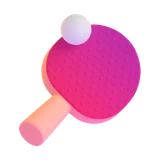
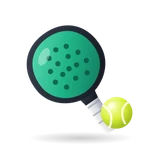
fix(sports): distinct padel pictogram (was the ping-pong emoji, now used by table tennis)
Claude-Session: https://claude.ai/code/session_01XtTvXAJQJA2PwRDLbGjBdh

diff --git a/public/sports/CREDITS.md b/public/sports/CREDITS.md
@@ -26,4 +26,4 @@ trouvées via [Openverse](https://openverse.org). Recadrées en 800×600.
 
 ## Pictogrammes 3D
 
-Les pictogrammes de `public/emoji/` sont les [Fluent Emoji](https://github.com/microsoft/fluentui-emoji) de Microsoft (licence MIT), redimensionnés en WebP 160 px. Seule exception : `petanque.webp` (boules et cochonnet), dessiné pour le site dans le même style, faute d'emoji pétanque.
+Les pictogrammes de `public/emoji/` sont les [Fluent Emoji](https://github.com/microsoft/fluentui-emoji) de Microsoft (licence MIT), redimensionnés en WebP 160 px. Exceptions, dessinées pour le site dans le même style faute d'emoji dédié : `petanque.webp` (boules et cochonnet) et `padel.webp` (raquette pleine perforée et balle ; l'emoji ping-pong reste au tennis de table).
